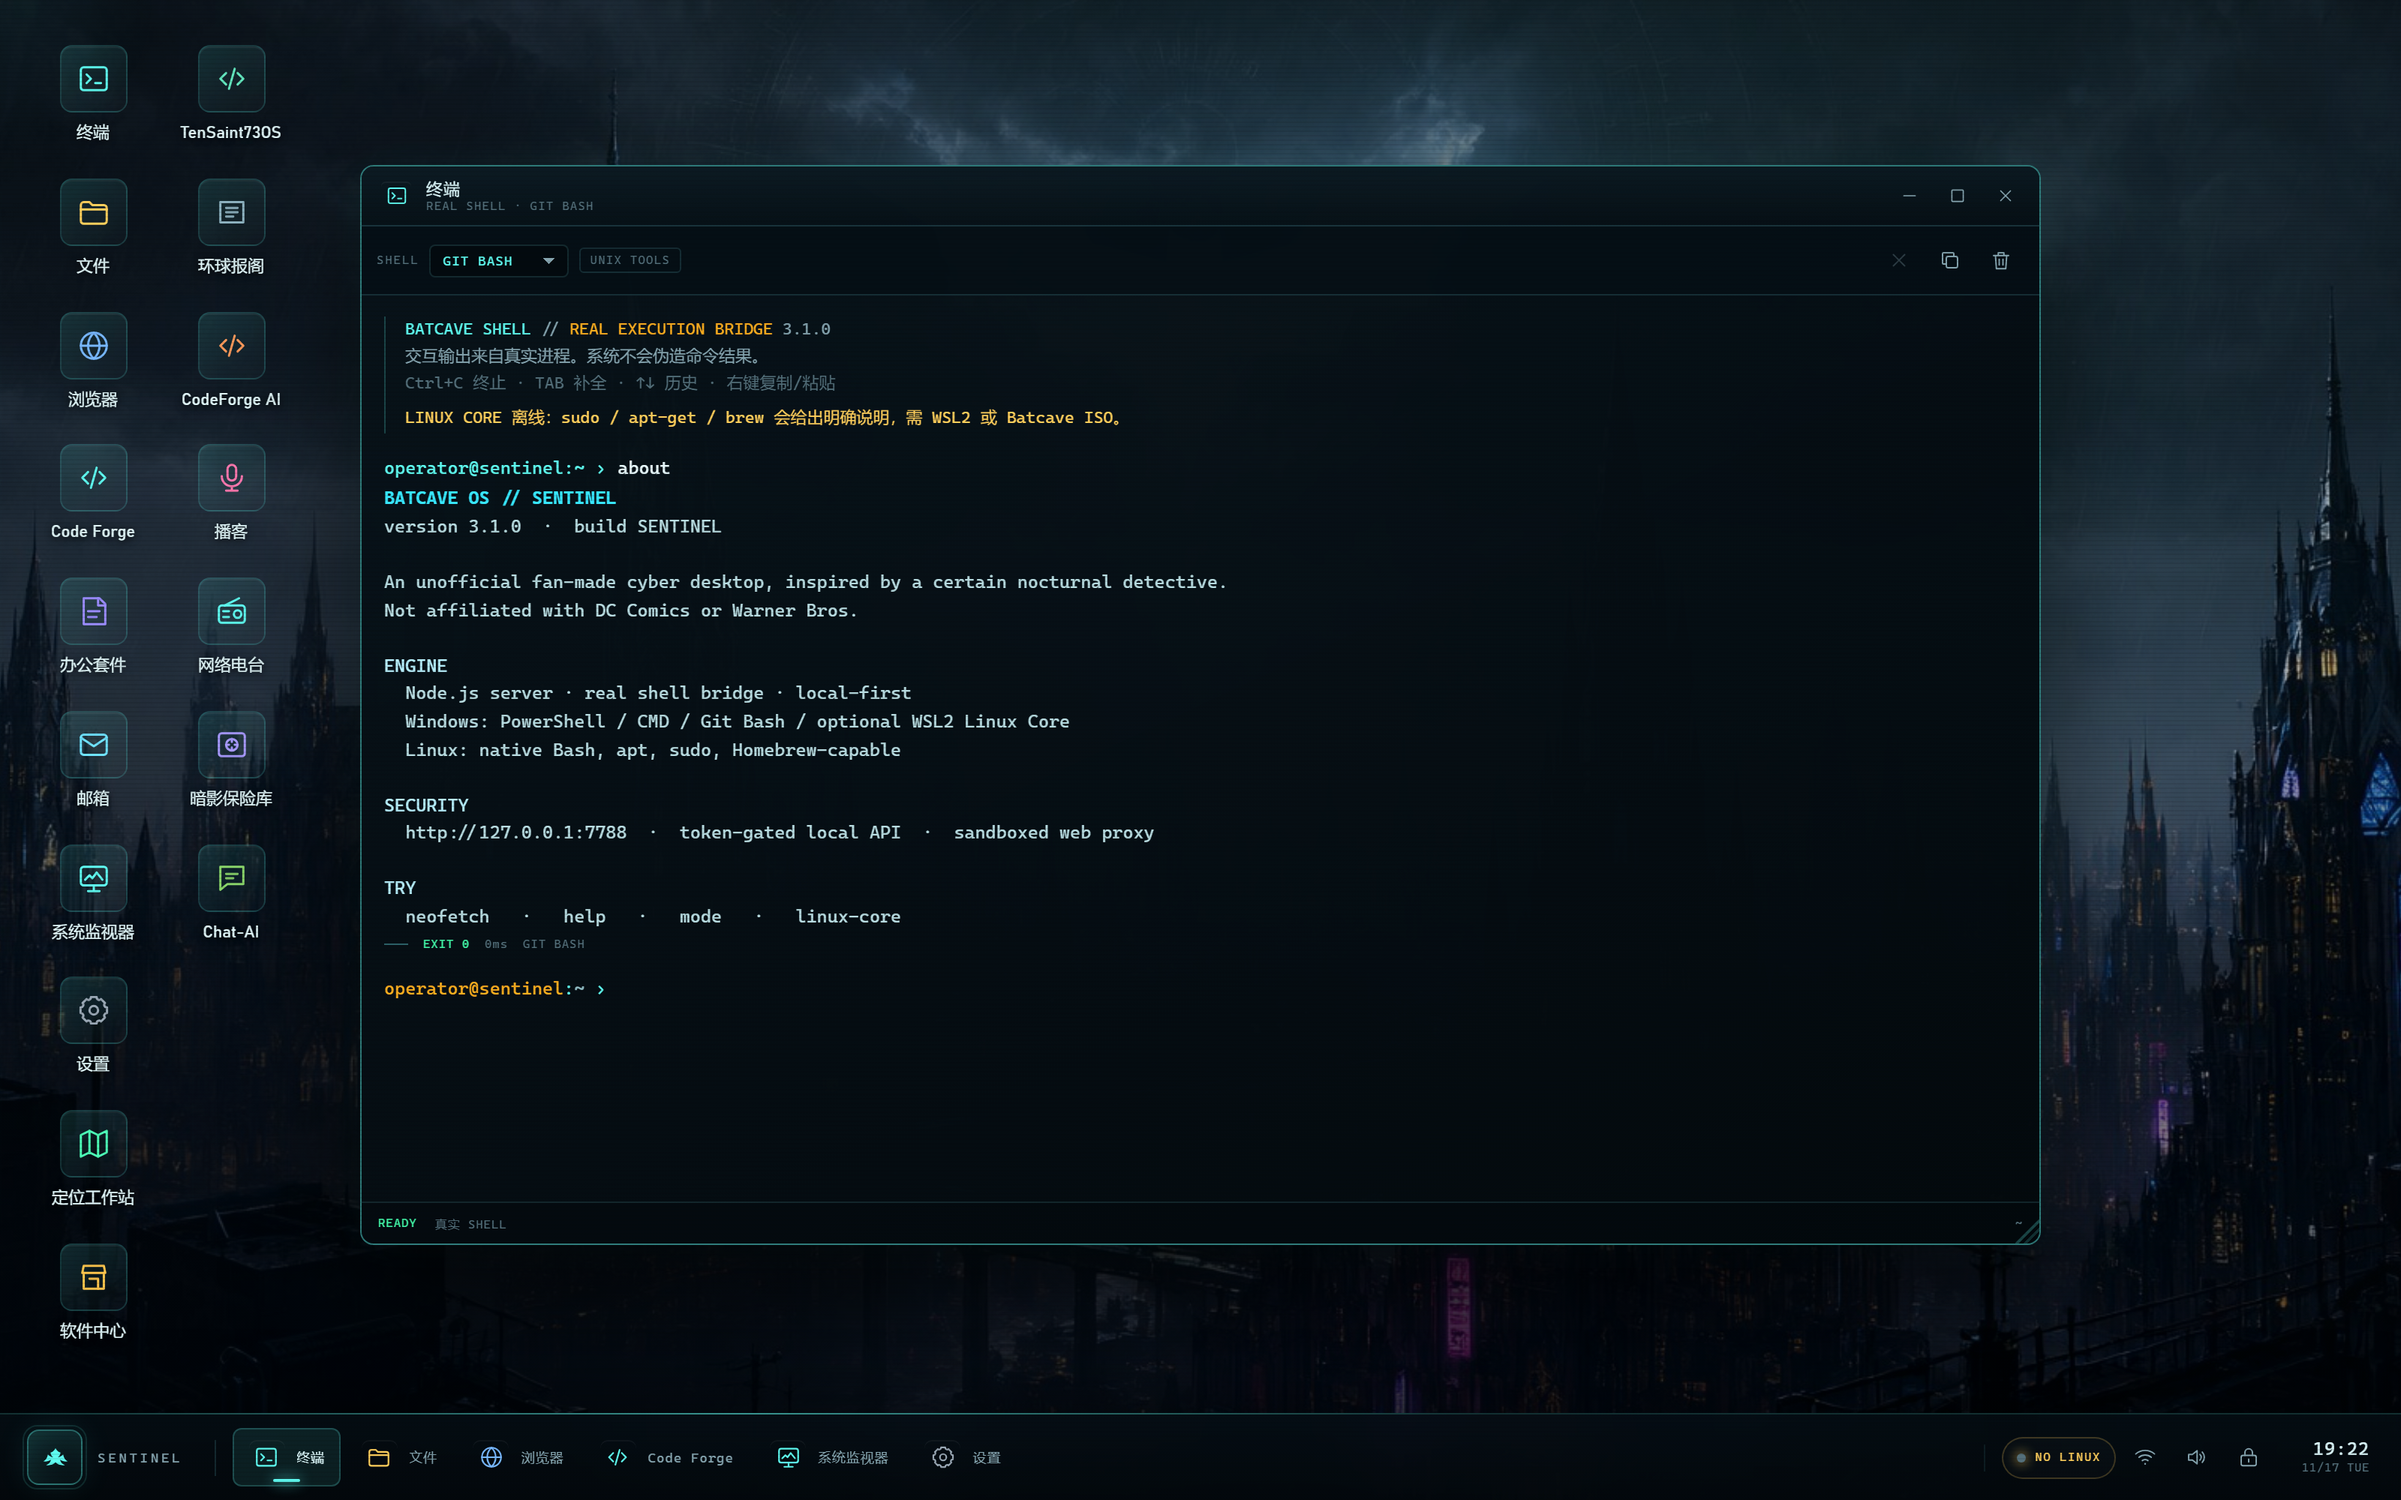
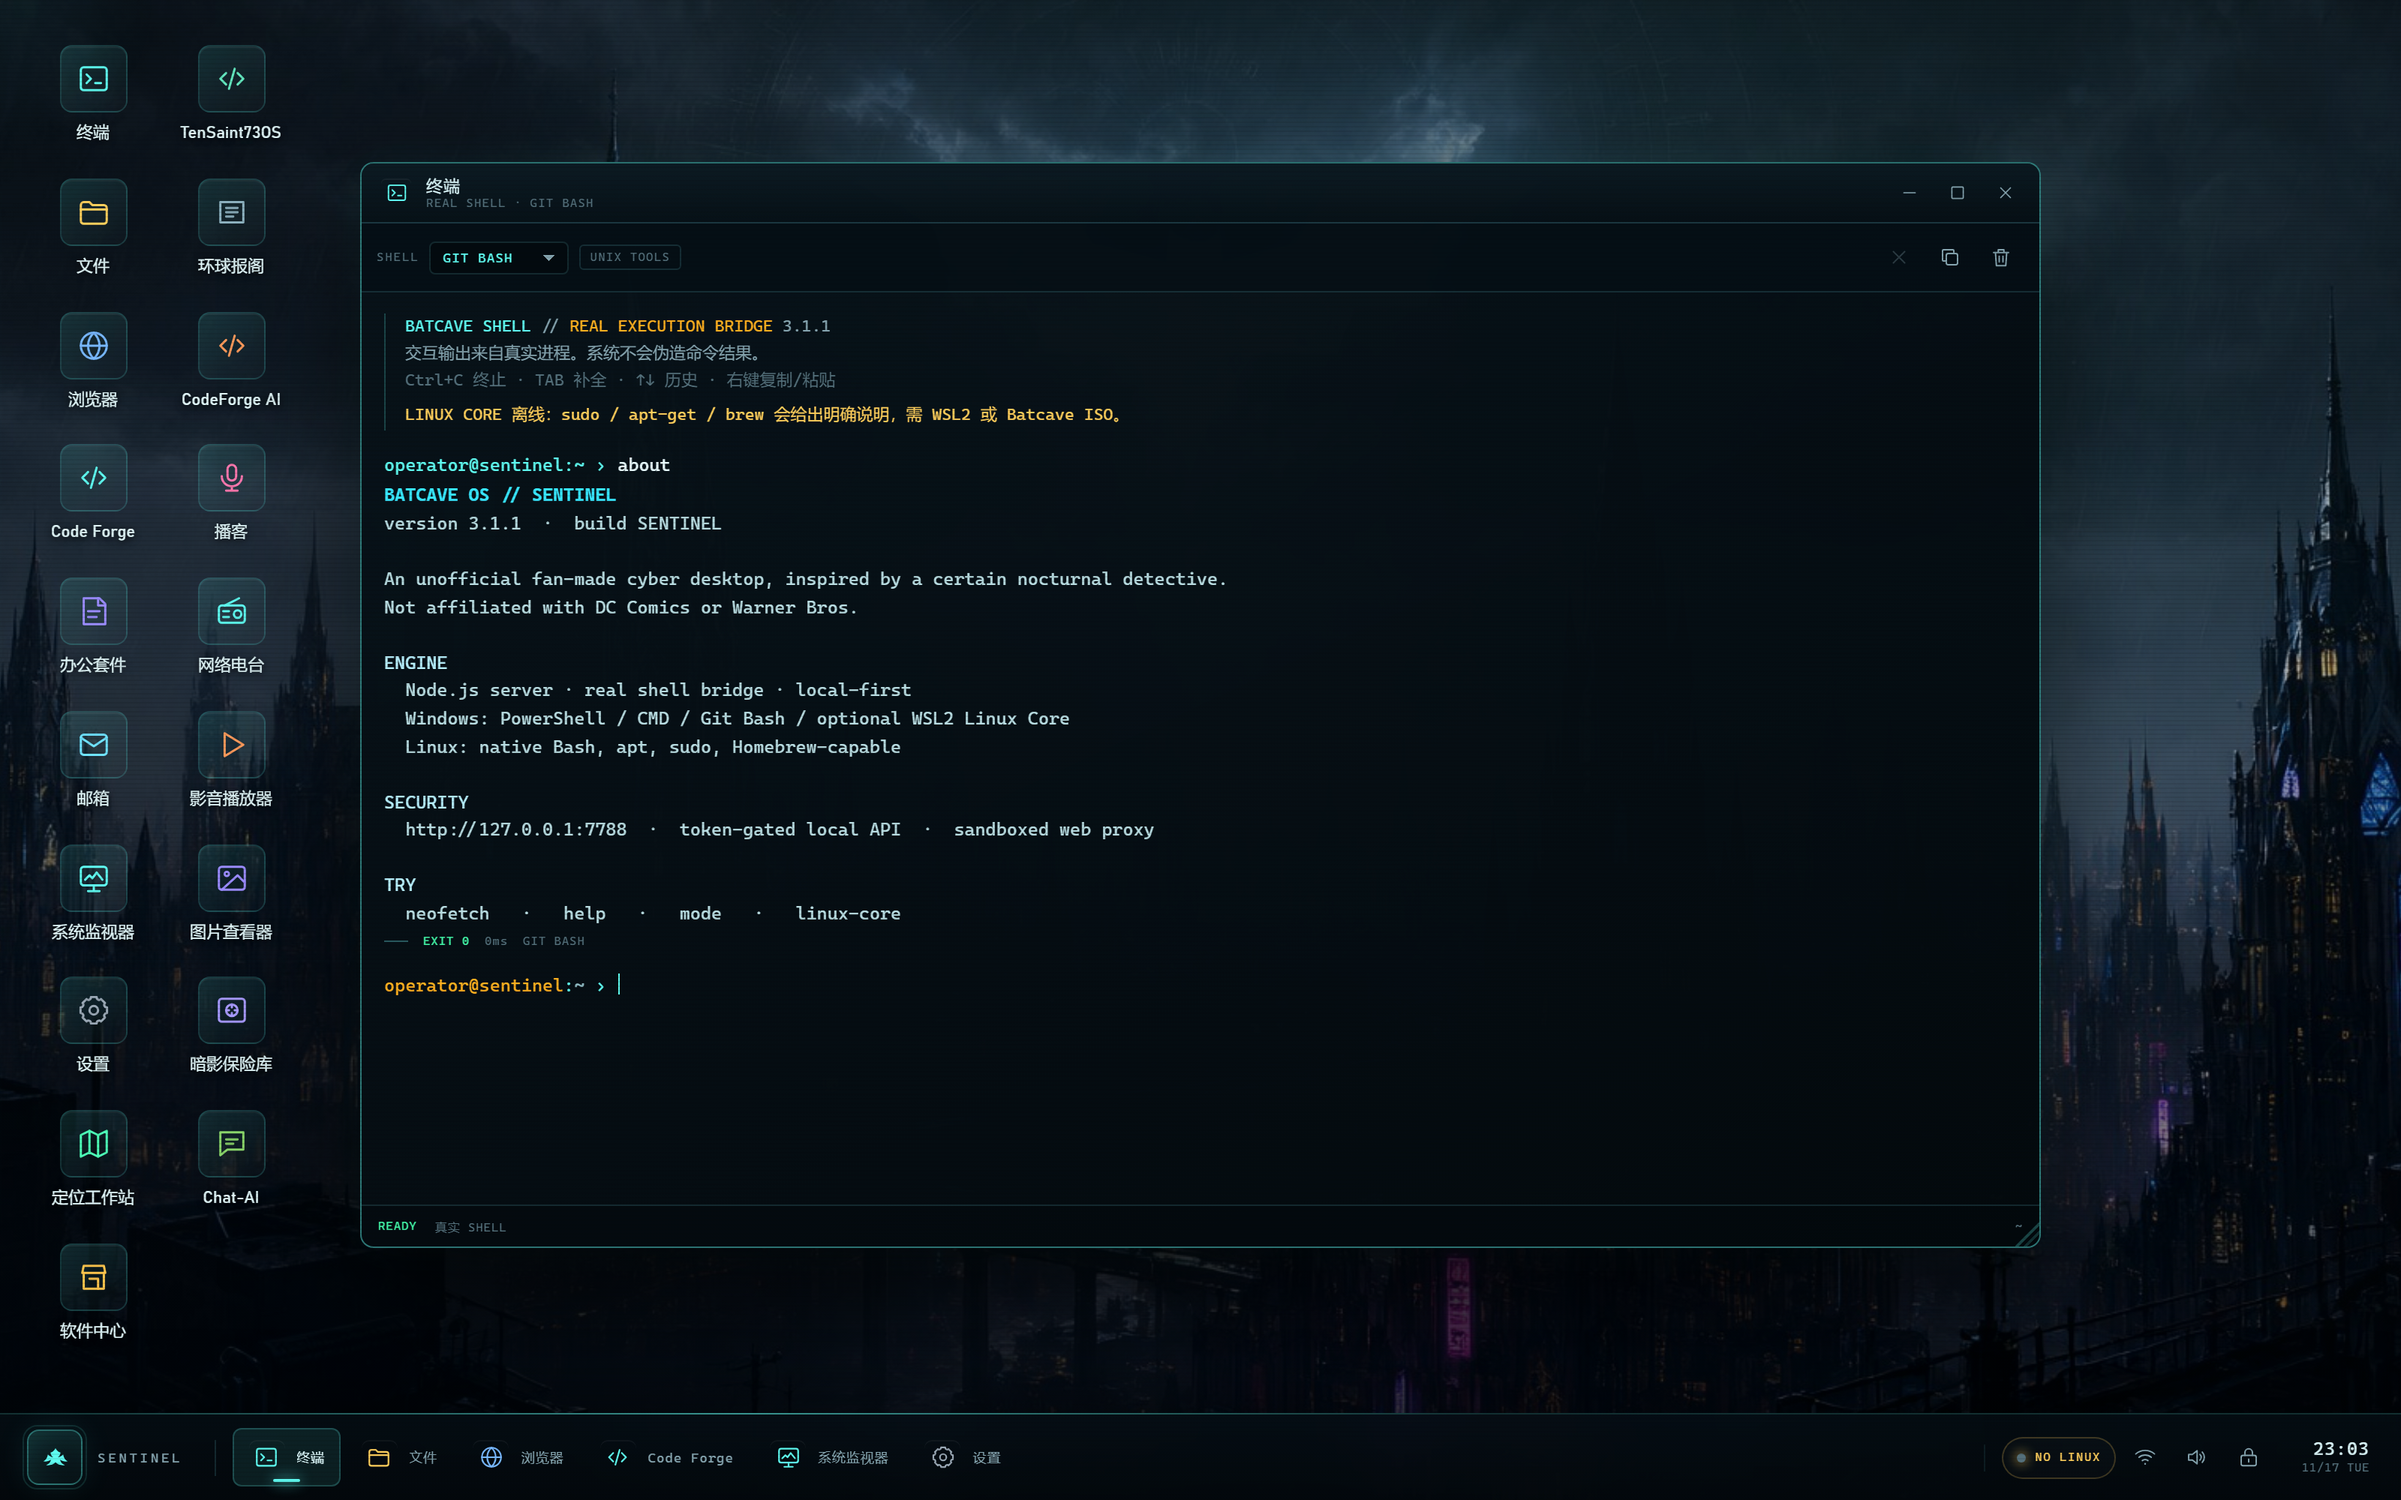
BATCAVE OS 3.1.1 SENTINEL · refresh docs, screenshots and release manifest

diff --git a/docs/BUILD-ISO.md b/docs/BUILD-ISO.md
@@ -78,7 +78,7 @@ powershell -NoProfile -ExecutionPolicy Bypass -File iso\winbase\build-iso.ps1 `
 8. 用 `oscdimg.exe` 生成 ISO：
    - x64：`-bootdata:2#p0,e,b<etfsboot.com>#pEF,e,b<efisys.bin>`，同时带 BIOS 与 UEFI 引导。
    - ARM64：`-bootdata:1#pEF,e,b<efisys.bin>`，只带 UEFI 引导。
-   - 公共参数：`-m -o -u2 -udfver102 -h -l<label>`；卷标形如 `BATCAVE_OS_310_X64`。
+   - 公共参数：`-m -o -u2 -udfver102 -h -l<label>`；卷标形如 `BATCAVE_OS_311_X64`。
 9. 计算输出 ISO 的 SHA-256 与字节数，调用 `verify-iso.ps1` 只读挂载成品并复检。
 10. 写出构建报告与校验报告；成功后删除暂存目录，失败时保留暂存并删除未通过校验的输出。
 
@@ -86,8 +86,8 @@ powershell -NoProfile -ExecutionPolicy Bypass -File iso\winbase\build-iso.ps1 `
 
 ```text
 iso/out/
-├── BATCAVE-OS-3.1.0.iso
-├── BATCAVE-OS-3.1.0-arm64.iso
+├── BATCAVE-OS-3.1.1.iso
+├── BATCAVE-OS-3.1.1-arm64.iso
 ├── ISO-BUILD.json / ISO-BUILD-arm64.json
 ├── VERIFY-ISO.json / VERIFY-ISO-arm64.json
 ├── ISO-SHA256SUMS.txt
@@ -103,8 +103,8 @@ iso/out/
 
 ```powershell
 powershell -NoProfile -ExecutionPolicy Bypass -File iso\winbase\verify-iso.ps1 `
-  -Iso iso\out\BATCAVE-OS-3.1.0.iso -Arch x64 -Index 4 `
-  -ExpectVersion 3.1.0 -Report iso\out\VERIFY-ISO.json
+  -Iso iso\out\BATCAVE-OS-3.1.1.iso -Arch x64 -Index 4 `
+  -ExpectVersion 3.1.1 -Report iso\out\VERIFY-ISO.json
 ```
 
 `verify-iso.ps1` 只读挂载 ISO，检查：
@@ -127,14 +127,14 @@ powershell -NoProfile -ExecutionPolicy Bypass -File iso\winbase\verify-iso.ps1 `
 
 | 项目 | x64 | ARM64 |
 | --- | --- | --- |
-| 输出文件 | `BATCAVE-OS-3.1.0.iso` | `BATCAVE-OS-3.1.0-arm64.iso` |
-| 字节数 | 9,249,839,104 | 8,971,425,792 |
[1 lines of base64/hex data omitted]
+| 输出文件 | `BATCAVE-OS-3.1.1.iso` | `BATCAVE-OS-3.1.1-arm64.iso` |
+| 字节数 | 9,249,867,776 | 8,971,454,464 |
[1 lines of base64/hex data omitted]
 | 源 ISO | Windows 11 专业版，索引 4 | Windows 11 专业版，索引 3 |
 | 引导 | BIOS（`0x00`）+ UEFI（`0xEF`） | UEFI（`0xEF`） |
 | WIM 架构 | x64 | arm64 |
 | Node.js | 26.13.0 / `0x8664` | 24.22.1 / `0xAA64` |
-| 卷标 | `BATCAVE_OS_310_X64` | `BATCAVE_OS_310_ARM64` |
+| 卷标 | `BATCAVE_OS_311_X64` | `BATCAVE_OS_311_ARM64` |
 | `allCoreOk` | `true` | `true` |
 
 两份成品 ISO 均已挂载校验：`setup.exe`、`install.wim`、`boot.wim`、BIOS/UEFI 引导目录、EFI fallback、WIM 架构、载荷文件、播放器文件、加速器代码、禁入凭据与任务进度组件。尚未在实体硬件上完成启动回归。

diff --git a/README.md b/README.md
@@ -168,7 +168,7 @@ powershell -NoProfile -ExecutionPolicy Bypass -File iso\winbase\build-iso.ps1 `
   -NodeExe "D:\tools\node-v24.22.1-win-arm64.exe"
 ```
 
-产物为 `iso\out\BATCAVE-OS-3.1.0.iso` 与 `BATCAVE-OS-3.1.0-arm64.iso`，相邻目录同时生成 `VERIFY-ISO*.json`、`ISO-BUILD*.json` 与 `ISO-SHA256SUMS.txt`。构建会校验：
+产物为 `iso\out\BATCAVE-OS-3.1.1.iso` 与 `BATCAVE-OS-3.1.1-arm64.iso`，相邻目录同时生成 `VERIFY-ISO*.json`、`ISO-BUILD*.json` 与 `ISO-SHA256SUMS.txt`。构建会校验：
 
 - `install.wim` 索引名称与架构（x64 / ARM64）。
 - El Torito 引导目录：x64 同时包含 BIOS 与 UEFI，ARM64 为 UEFI。
@@ -180,13 +180,13 @@ powershell -NoProfile -ExecutionPolicy Bypass -File iso\winbase\build-iso.ps1 `
 
 | 项目 | x64 | ARM64 |
 | --- | --- | --- |
-| 文件 | `BATCAVE-OS-3.1.0.iso` | `BATCAVE-OS-3.1.0-arm64.iso` |
-| 字节数 | 9,249,839,104 | 8,971,425,792 |
[1 lines of base64/hex data omitted]
+| 文件 | `BATCAVE-OS-3.1.1.iso` | `BATCAVE-OS-3.1.1-arm64.iso` |
+| 字节数 | 9,249,867,776 | 8,971,454,464 |
[1 lines of base64/hex data omitted]
 | 引导 | BIOS + UEFI | UEFI |
 | WIM 架构 | x64 | arm64 |
 | 内置 Node.js | 26.13.0 / `0x8664` | 24.22.1 / `0xAA64` |
-| 卷标 | `BATCAVE_OS_310_X64` | `BATCAVE_OS_310_ARM64` |
+| 卷标 | `BATCAVE_OS_311_X64` | `BATCAVE_OS_311_ARM64` |
 | `allCoreOk` | `true` | `true` |
 
 > 两份 ISO 均已挂载校验安装树、引导项、WIM 架构、Node/EFI 架构与 `$OEM$` 载荷，但尚未在实体硬件上做启动回归。

diff --git a/docs/UPDATE.md b/docs/UPDATE.md
@@ -114,7 +114,7 @@ dist/SHA256SUMS.txt
 
 ```powershell
 Add-Type -AssemblyName System.IO.Compression.FileSystem
-[IO.Compression.ZipFile]::OpenRead("$PWD\dist\BATCAVE-OS-3.1.0.zip").Entries |
+[IO.Compression.ZipFile]::OpenRead("$PWD\dist\BATCAVE-OS-3.1.1.zip").Entries |
   Select-Object FullName, Length | Sort-Object FullName
 ```
 
@@ -142,18 +142,18 @@ curl -L https://raw.gitcode.com/gcw_So3EkhfR/BATCAVE-OS/raw/main/update/latest.j
 ```json
 {
   "schema": 1,
-  "version": "3.1.0",
+  "version": "3.1.1",
   "codename": "SENTINEL",
   "released": "2026-11-17",
   "notes": "中文更新说明，最长 30000 字符",
-  "notesUrl": "https://github.com/IAMMEZSH/BATCAVE-OS/releases/tag/v3.1.0",
+  "notesUrl": "https://github.com/IAMMEZSH/BATCAVE-OS/releases/tag/v3.1.1",
   "notesUrls": {
-    "github": "https://github.com/IAMMEZSH/BATCAVE-OS/releases/tag/v3.1.0",
-    "gitcode": "https://gitcode.com/gcw_So3EkhfR/BATCAVE-OS/releases/tag/v3.1.0"
+    "github": "https://github.com/IAMMEZSH/BATCAVE-OS/releases/tag/v3.1.1",
+    "gitcode": "https://gitcode.com/gcw_So3EkhfR/BATCAVE-OS/releases/tag/v3.1.1"
   },
   "assets": {
-    "github": { "url": "https://.../BATCAVE-OS-3.1.0.zip", "sha256": "64位十六进制", "size": 12345678 },
-    "gitcode": { "url": "https://.../BATCAVE-OS-3.1.0.zip", "sha256": "64位十六进制", "size": 12345678 }
+    "github": { "url": "https://.../BATCAVE-OS-3.1.1.zip", "sha256": "64位十六进制", "size": 12345678 },
+    "gitcode": { "url": "https://.../BATCAVE-OS-3.1.1.zip", "sha256": "64位十六进制", "size": 12345678 }
   }
 }
 ```

diff --git a/docs/MANUAL.md b/docs/MANUAL.md
@@ -666,7 +666,7 @@ BATCAVE 的基座有三条使用路径，均从你自己的官方 Windows 11 ISO
 
 见 [Windows 基座构建与部署](BUILD-ISO.md)。构建脚本：
 
-- `iso\winbase\build-iso.ps1`：官方安装树 + `$OEM$` → 可启动 ISO，产物默认 `iso\out\BATCAVE-OS-3.1.0[-arm64].iso`。
+- `iso\winbase\build-iso.ps1`：官方安装树 + `$OEM$` → 可启动 ISO，产物默认 `iso\out\BATCAVE-OS-3.1.1[-arm64].iso`。
 - `iso\winbase\verify-iso.ps1`：只读挂载成品 ISO，校验 WIM 索引架构、El Torito 的 BIOS/UEFI 引导、载荷、快捷方式、禁入凭据与任务 HUD 缺失，输出 `VERIFY-ISO[-arm64].json`。
 - `iso\winbase\build-winbase.ps1`：生成 Windows To Go VHD。
 - `iso\winbase\verify-vhd.ps1`：只读挂载 VHD，校验分区、引导文件、程序载荷与 PE 架构。
